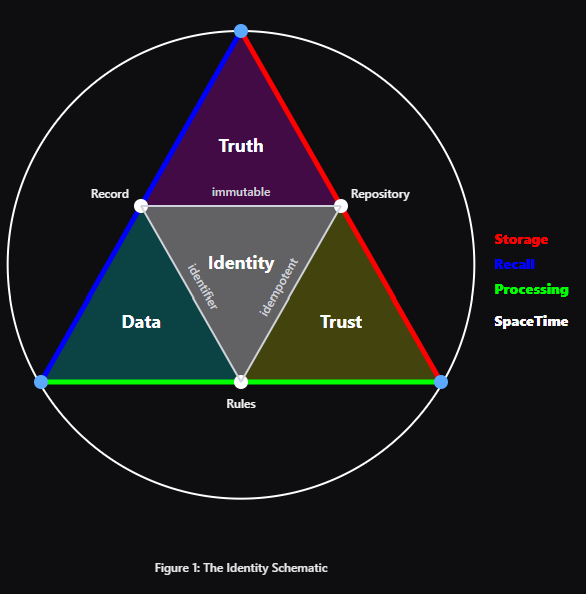
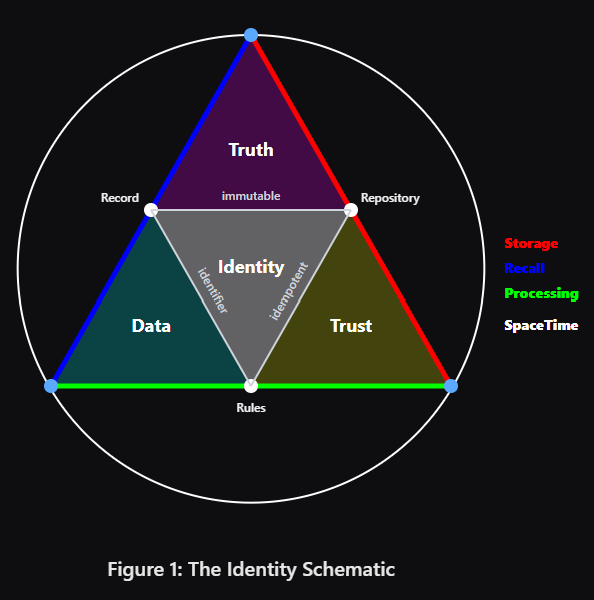
minor tweaks

diff --git a/belief/js/main.js b/belief/js/main.js
@@ -354,6 +354,29 @@ function start(schema) {
     btnSpin.textContent = spinning ? "Pause" : "Spin";
   });
 
+  // Interaction: stop spin by clicking a face (epistemic "touch arrests motion").
+  // We raycast against the tetrahedron mesh only (not labels), and simply set spinning=false.
+  const raycaster = new THREE.Raycaster();
+  const pointer = new THREE.Vector2();
+
+  canvas.addEventListener("pointerdown", (event) => {
+    // Only react to primary button / touch
+    if (event.button != null && event.button !== 0) return;
+
+    const rect = canvas.getBoundingClientRect();
+    pointer.x = ((event.clientX - rect.left) / rect.width) * 2 - 1;
+    pointer.y = -((event.clientY - rect.top) / rect.height) * 2 + 1;
+
+    raycaster.setFromCamera(pointer, camera);
+
+    // Intersect the tetrahedron surface.
+    const hits = raycaster.intersectObject(tetra, false);
+    if (hits.length > 0) {
+      spinning = false;
+      if (btnSpin) btnSpin.textContent = "Spin";
+    }
+  });
+
   // Resize
   function resize() {
     const rect = canvas.getBoundingClientRect();

diff --git a/identity/index.html b/identity/index.html
@@ -11,7 +11,7 @@
   .small{font-size:12px;font-weight:600;fill:#ffffff;opacity:.95}
   .edge-label{font-size:12px;font-weight:600;fill:#cfd3da}
   .legend{font-size:14px;font-weight:800}
-  .caption{font-size:12px;font-weight:600;fill:#ffffff;opacity:.9}
+  .caption{font-size:20px;font-weight:600;fill:#ffffff;opacity:.9}
 </style>
 </head>
 <body>
